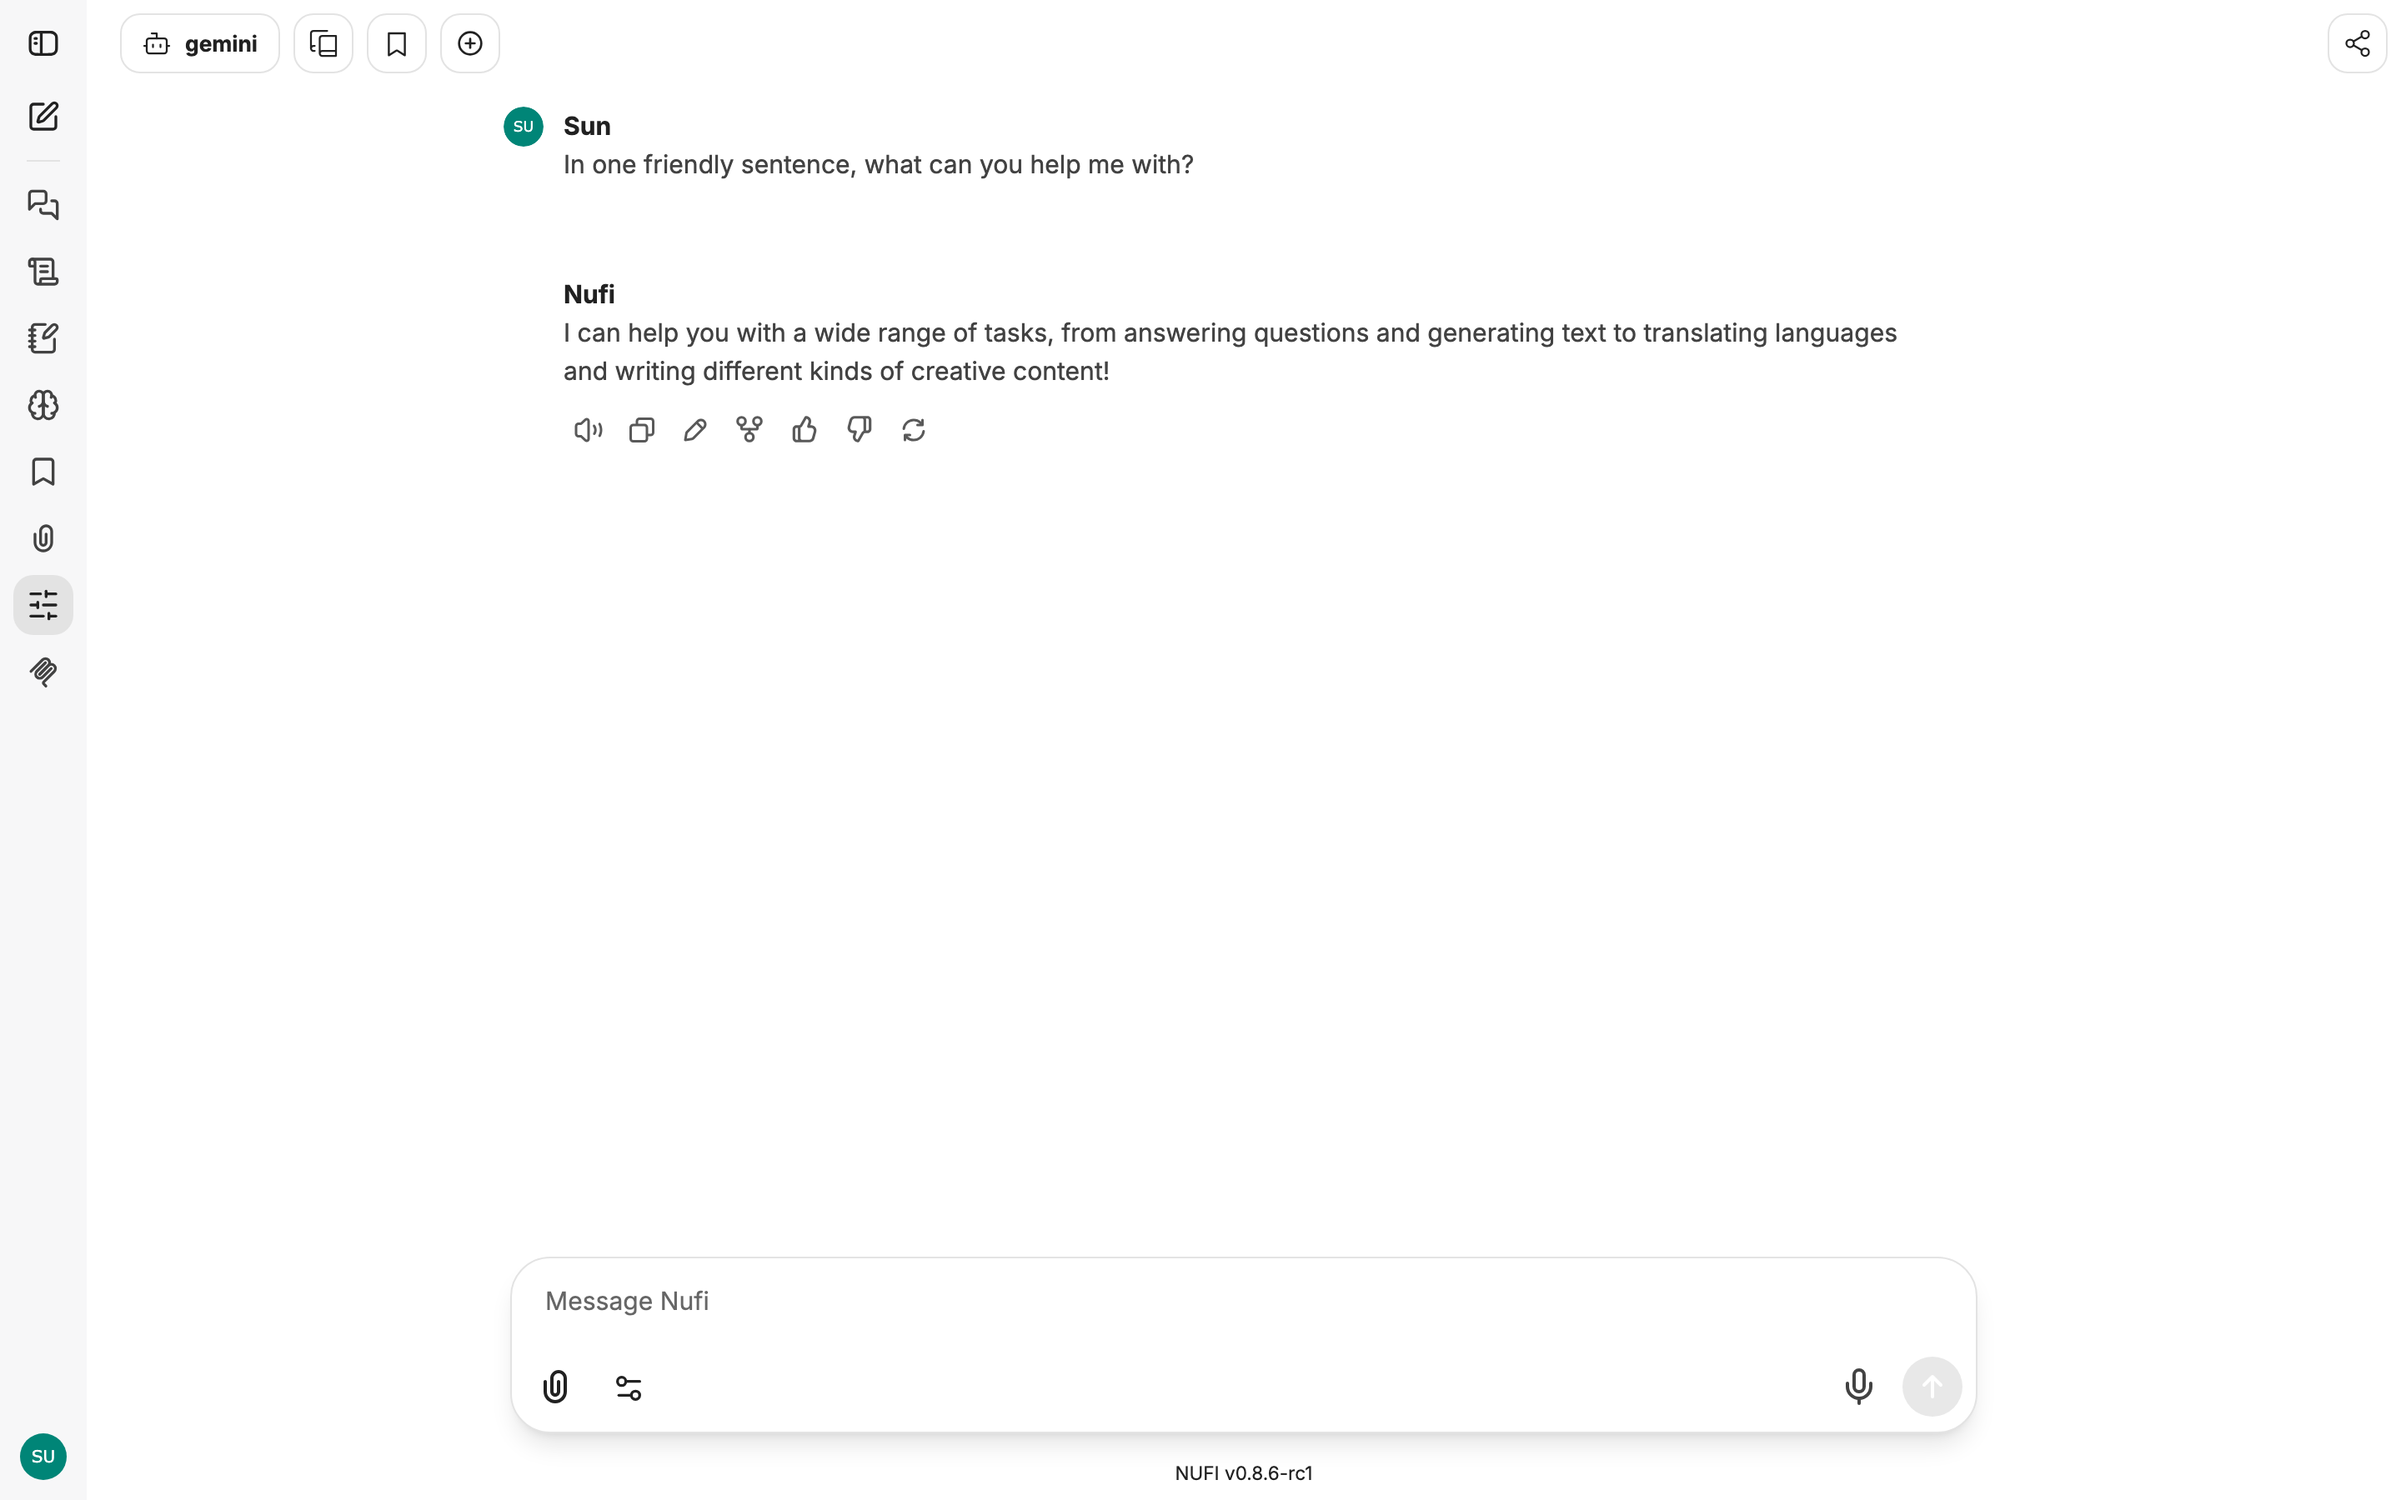
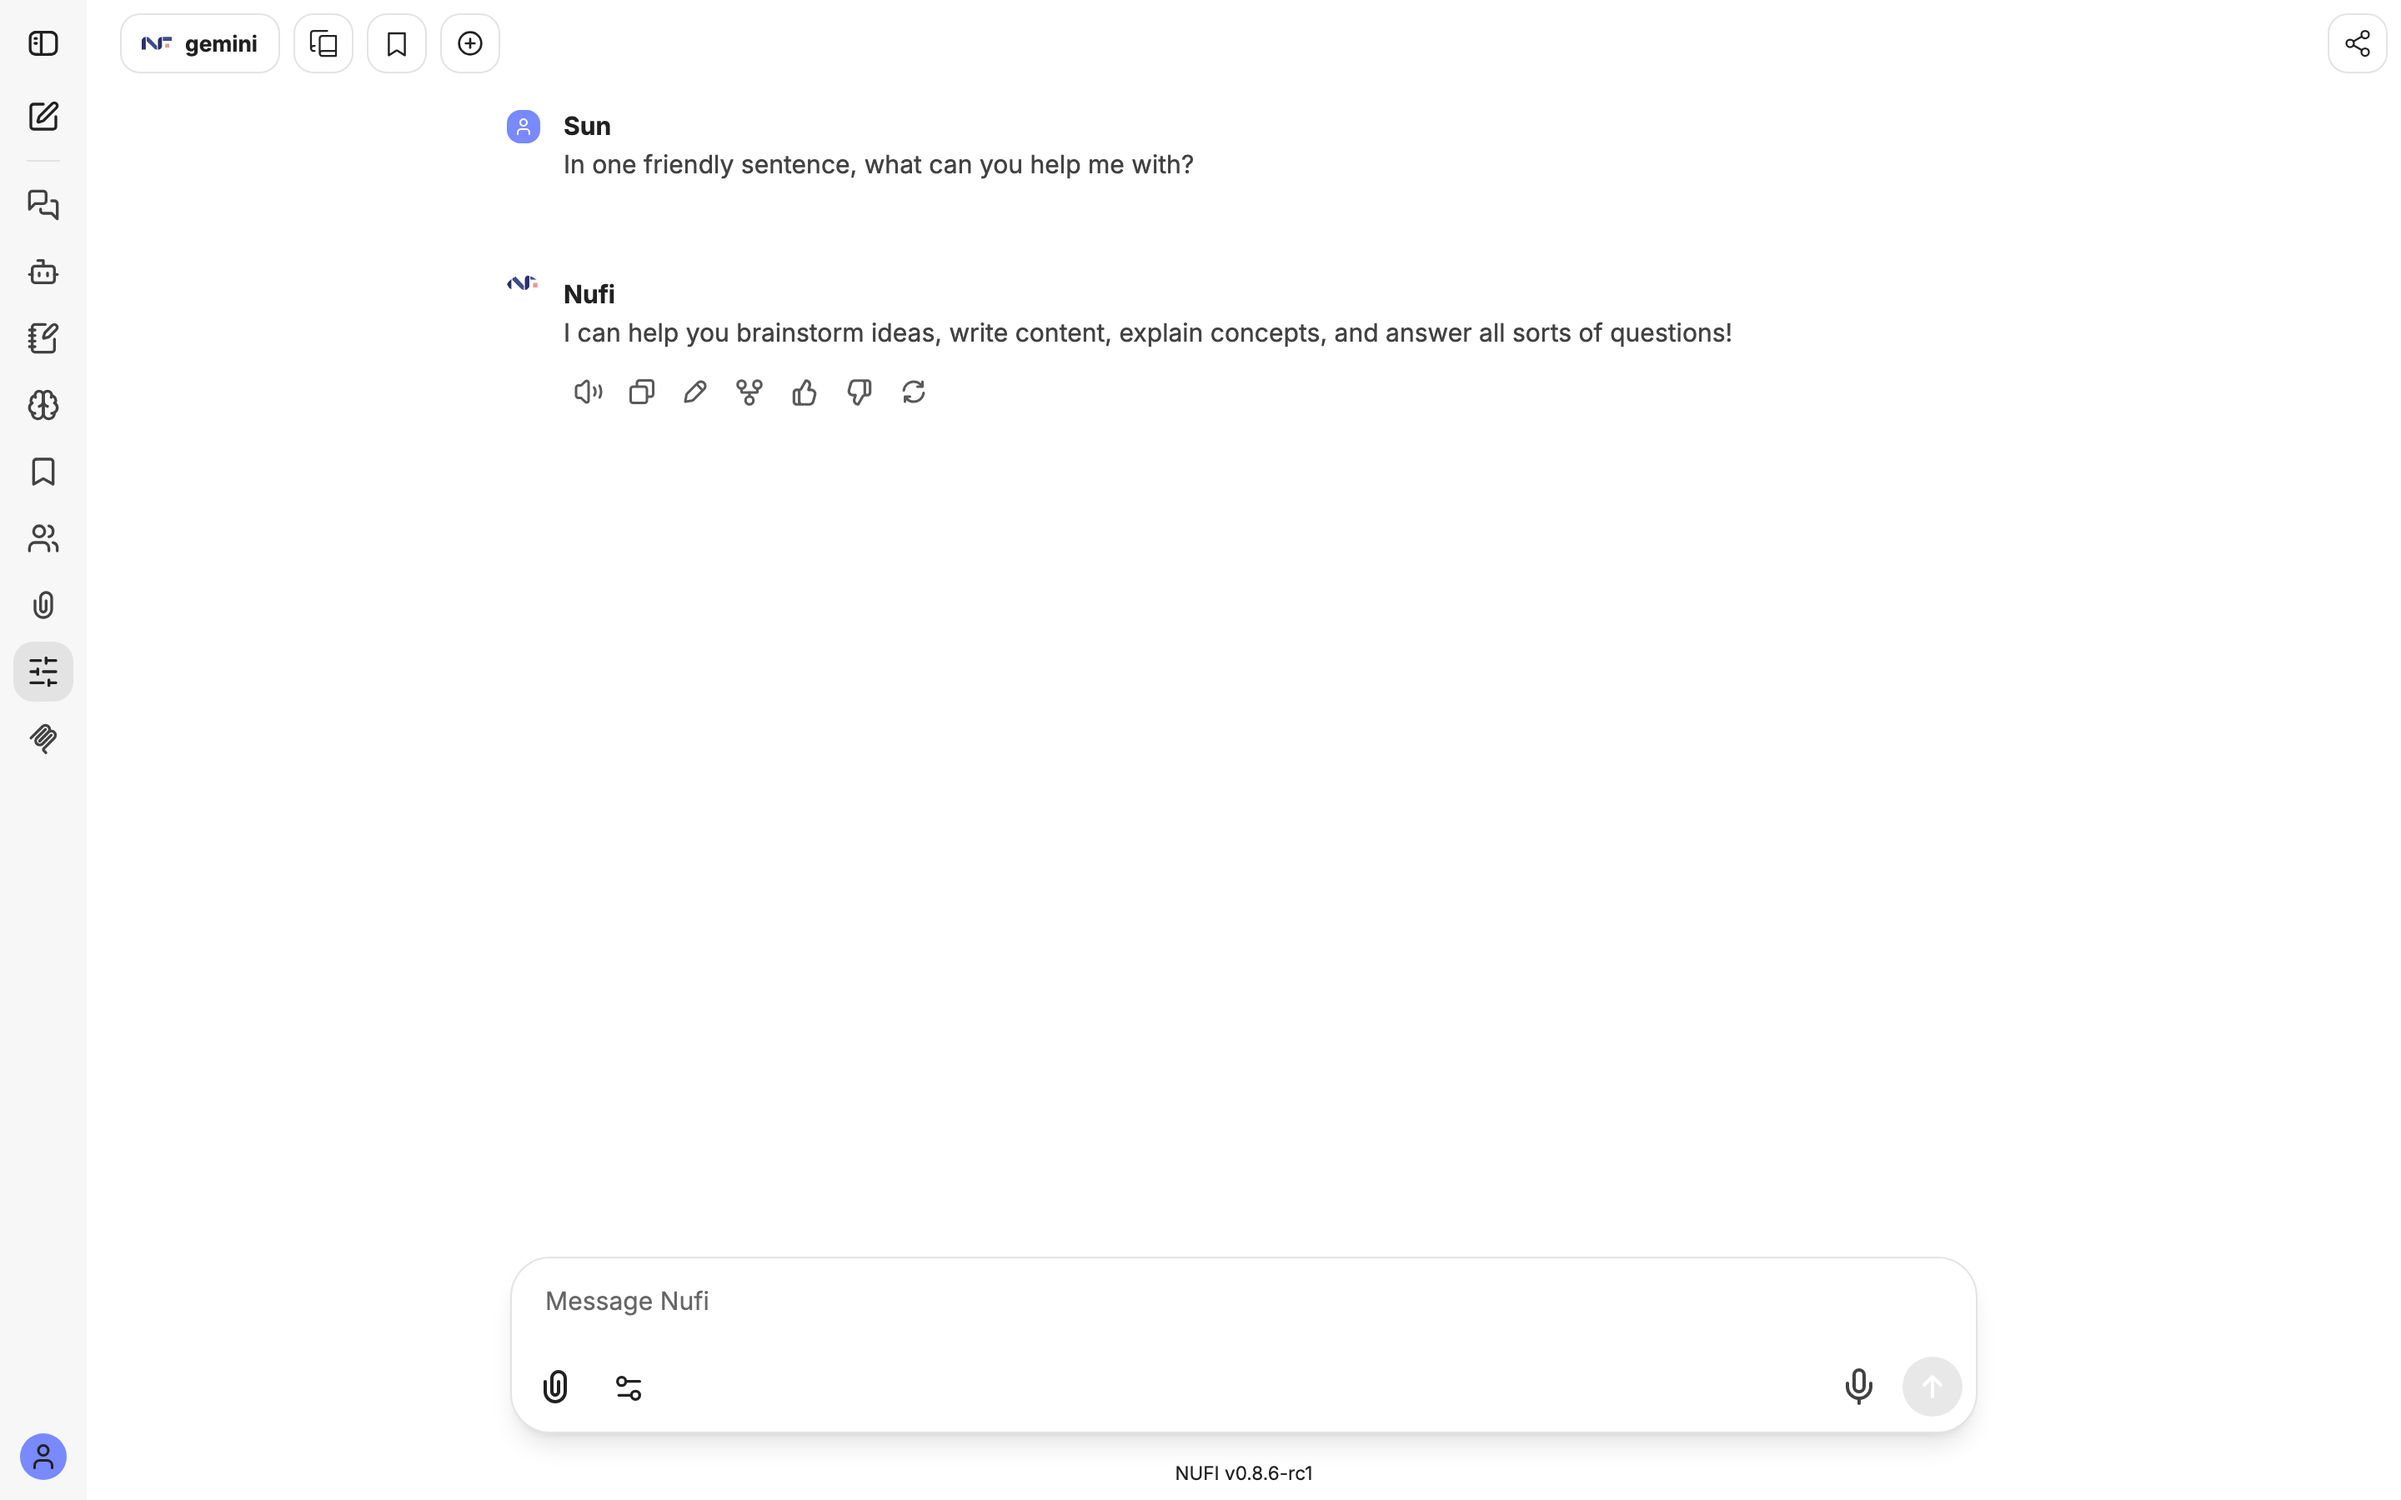
docs: recapture the screenshots on the live surfaces, and fix what they showed
Signed-in captures of chat, console, the chooser, Studio and the admin
panel replace the July set (30 files). The capture script now switches
the browser to the Advanced interface before photographing the menus,
selects a plain model before the Tools menu and Parameters panel (they
do not render for agents), captures Settings -> General instead of an
account menu with a real email on it, waits for the console chart, and
refuses to photograph Works when the member has no access to the
selected company. Its admin URL is the custom domain.

What the captures corrected in the docs: the Tools menu belongs to
plain models, not agents; chat.nufi.me has File Search only (no Web
Search, Run Code, Artifacts or Skills, and no Skills panel), which the
web-search, data-analysis and agents pages now say plainly; the model
picker is the same in Basic and Advanced; the Parameters panel's own
Web Search toggle is the provider's, not NUFI's; Settings has a
Personalization tab; the account menu order; Studio's pre-existing
global variables; the Works rail's Decisions entry.

Findings: F29 rewritten (production matches the seed yaml), F30
(create-user accepts passwords the login schema rejects), F31 (Works
opens a member on a company they cannot read). Run log in
docs/audits/2026-09-07-screenshots-runlog.md.

Claude-Session: https://claude.ai/code/session_011j6Q2TwiVEvL1xsZ5VEVp8

diff --git a/docs/audits/2026-09-07-screenshots-runlog.md b/docs/audits/2026-09-07-screenshots-runlog.md
@@ -1,0 +1,47 @@
+# Screenshot recapture run log — 2026-09-07
+
+Branch `docs/audit-screenshots` from origin/main 84c0fa682 (after lane 5
+merged). Captured with `bun run screenshots` against the hosted
+surfaces, signed in as the shared test account (credentials passed as
+`NUFI_EMAIL` / `NUFI_PASSWORD`; not recorded anywhere).
+
+## What the run taught
+
+| # | Observation | Consequence |
+|---|---|---|
+| 1 | The test account's original 6-character password could not sign in: the login schema requires 8 (`api/strategies/validators.js:33-36`) and is checked before the account is looked up, while `config/create-user.js` never enforces it | **F30**; password reset by Sun before the run |
+| 2 | Every fresh browser context starts in Basic, so the script now writes the same `localStorage` key the Interface switch writes and reloads before photographing the menus | script: `enableAdvancedMode()` |
+| 3 | The Tools menu and the Parameters panel render for **plain models only** (`ChatForm.tsx:357`: not agents, not assistants); the previous run failed on them because the account's last conversation was the agent *Public* | script: `selectPlainModel()`; docs corrected on every page that said the Tools menu belongs to agents |
+| 4 | On `chat.nufi.me` the Agent Builder offers **File Search** alone, and the Tools menu of a plain model lists File Search alone; no Web Search, Run Code, Artifacts or Skills, and no Skills panel in the rail | **F29** rewritten (production matches `deploy/railway/librechat.yaml`); web-search, data-analysis and agents pages now say so; `chat-skills.png` removed |
+| 5 | The model picker is identical in Basic and Advanced (My Agents, Nufi, Nufi-lab); the "curated list in Basic" claim was wrong for this deployment | models page corrected |
+| 6 | The Parameters panel has a **Web Search** toggle that is the provider's native option, not NUFI's tool | models page warns about it |
+| 7 | Settings has a **Personalization** tab and no font-size control on General | sign-in page corrected |
+| 8 | The account menu order is My Files, Help & FAQ, Console, Agents, Settings, Advanced/Basic, Log out | sign-in page corrected |
+| 9 | Works opened the `dudaji` company with *"User does not have access to this company"* on every page | **F31**; capture refused, old `works-dashboard.png` kept |
+| 10 | The console's 7-day usage chart stayed a loading skeleton for 20 s in two captures | not diagnosed; `console-home.png` shows the skeleton |
+| 11 | The default `admin` URL in the script was the Railway-generated host; the custom domain is `admin.app.nufi.me` | script corrected |
+| 12 | The `chat` surface's account-menu capture shows the signed-in email unredacted | capture dropped; the `chatmenu` surface (redacted) covers it |
+
+## Recaptured
+
+`chat-sign-in`, `chat-home`, `chat-agents-menu`, `chat-model-menu`,
+`chat-presets-menu`, `chat-attach-menu`, `chat-tools-menu`,
+`chat-parameters`, `chat-conversation`, `chat-settings-general` (new),
+`chat-agent-new`, `chat-agent-knowledge`, `chat-teams-list`,
+`chat-team-create`, `chat-team-members`, `chat-team-invite`,
+`chat-team-knowledge`, `chat-team-shared`, `chat-team-groups`,
+`console-home`, `agents-chooser`, `studio-home`, `studio-api-keys`,
+`studio-variables`, `admin-sign-in`, `admin-home`, `admin-configuration`,
+`admin-access`, `admin-grants`, `admin-role-detail`.
+
+## Kept from earlier runs
+
+The Works set (`works-dashboard`, `works-signin`, `works-onboarding`,
+`works-agents`, `works-org`, `works-costs`) because of F31, and the four
+`security-*` shots, which come from the local stack.
+
+## Removed
+
+`chat-skills.png` (no Skills panel on production), `chat-account-menu.png`
+(real email, unreferenced), `works-home.png` and `chat-model-menu-basic.png`
+(captured, judged not useful, never committed).

diff --git a/docs/audits/2026-09-07-docs-audit-findings.md b/docs/audits/2026-09-07-docs-audit-findings.md
@@ -388,6 +388,18 @@ Commit `25fd2149d` moved `nufi_agent` to the top of the wizard and put Claude Co
 
 `helpAndFaqURL` is `https://librechat.ai` (`/api/config`). `interface.helpAndFaqURL` in `librechat.yaml` can point it at `https://docs.app.nufi.me` instead. Same family as **F19**.
 
-### F29. The repo's seed config no longer describes production — misleads
+### F29. The docs' Tools-menu screenshot showed capabilities production no longer has — docs only, fixed
 
-`deploy/railway/librechat.yaml:40-42` scopes agent capabilities to `file_search` only, but the screenshots taken on `chat.nufi.me` show Web Search, Skills, Run Code and Artifacts in the Tools menu: the admin panel's stored configuration overrides the file, and nothing in the repo records what production actually enables. An operator reading the yaml, or a docs author, gets the wrong answer. Export the live configuration from the admin panel and commit it as the seed, or state in `deploy/railway/README.md` that the panel is authoritative and the yaml is only the first boot.
+`deploy/railway/librechat.yaml:40-42` scopes agent capabilities to `file_search` only, and a signed-in capture on 2026-09-07 confirms production matches it: the Agent Builder offers File Search alone, and the Tools menu of a plain model lists File Search and nothing else. The July screenshot that showed Web Search, Skills, Run Code and Artifacts predates that scoping. Screenshot recaptured; the web-search, data-analysis and agents pages now say what `chat.nufi.me` has switched on today.
+
+### F30. `create-user` accepts a password the login form will never accept — blocks
+
+**Seen:** the login schema (`apps/chat/api/strategies/validators.js:33-36`) requires at least 8 characters and is checked before the account is looked up, so `POST /api/auth/login` with a 6-character password answers `password: String must contain at least 8 character(s)` for every account. `apps/chat/config/create-user.js` has no length check, so an operator can create an account with `123456`, and that account can then never sign in through the app or the API. `config/reset-password.js` does enforce the minimum. The shared test account was in exactly this state until its password was reset on 2026-09-07.
+
+**Proposed fix:** apply the same minimum in `create-user.js`, and print the rule in its usage text.
+
+### F31. NUFI Works opens a member on a company they cannot read — misleads
+
+**Seen:** signed in as the test account on 2026-09-07, every Works page rendered the `dudaji` company with a red *"User does not have access to this company"* banner and no data (`works-home` capture, not committed). The company switcher remembers the last company; when membership is later removed, the app keeps opening it instead of falling back to a company the member belongs to, or to the *"No company access"* state the docs describe.
+
+**Proposed fix:** on load, drop a remembered company the member no longer belongs to and select the first accessible one; show the no-access state only when there is none. The capture script now refuses to photograph this state.
